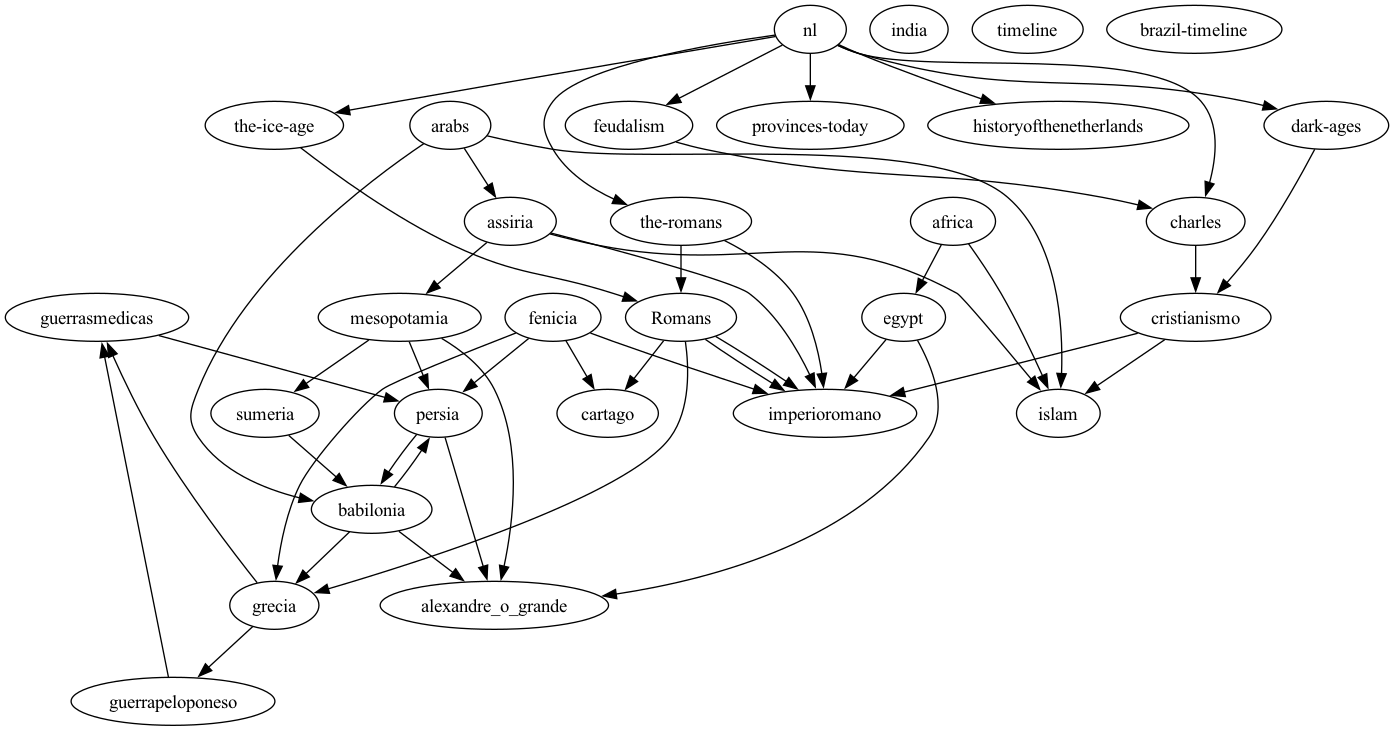
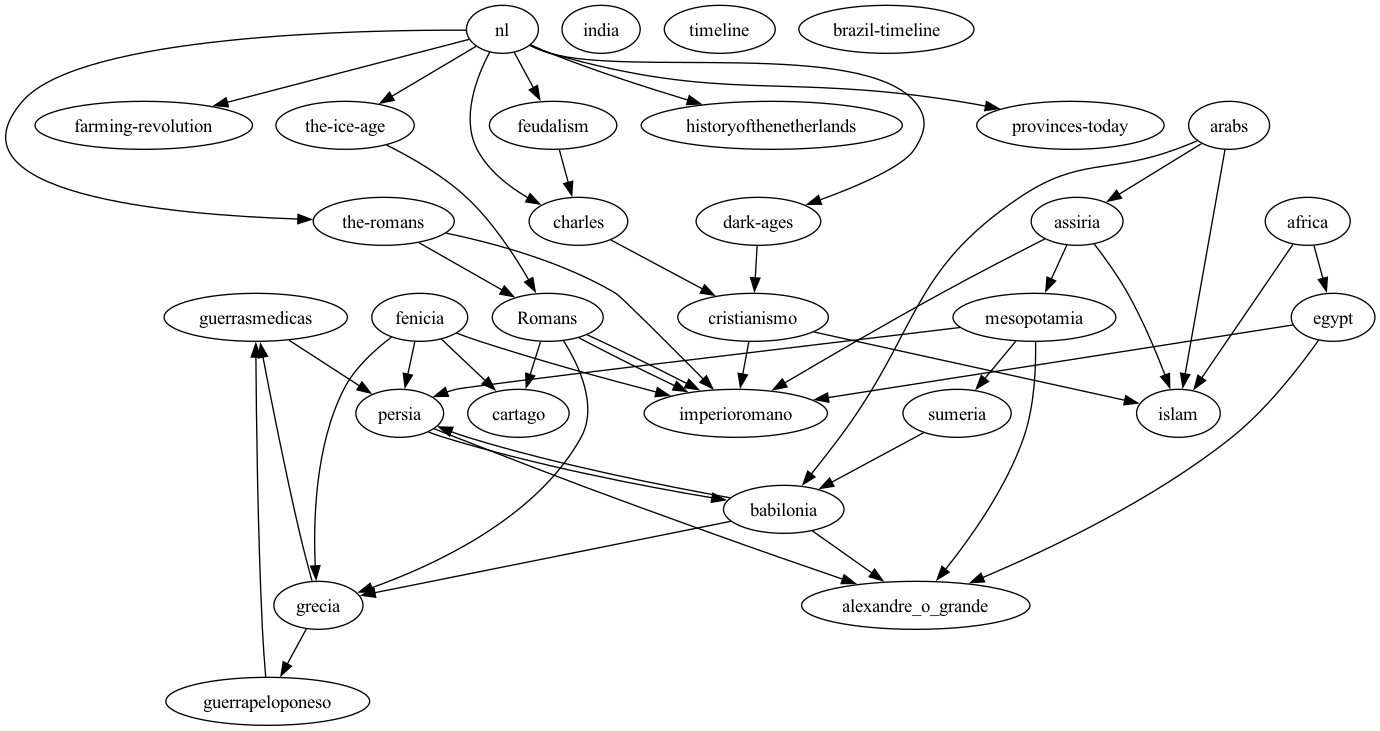
feat: NL farming revolution ::by sergio giraldo @ 20241216T1715CET, gpg signed

diff --git a/docs/netherlands/farming-revolution.md b/docs/netherlands/farming-revolution.md
@@ -1,0 +1,61 @@
+# Ploughin' Forward
+
+Only a tiny minority of people who lived around the end of the first millennium of the Common Era would have been directly concerned with the conflicts with neighbours. For most people in the lowlands, it didn’t matter who their count or duke or emperor was. For them, life was nasty, brutish and short, and involved an overwhelming amount of backbreaking manual labour. But an agricultural revolution changed the life for these peasants forever.
+
+## Church Developments
+
+By the late 1000s the general idealism of what piety looked like had begun to change; a stricter sense of observance came to dominate the expected behaviour of the clergy, or at least the lower clergy. Monks and priests and nuns in this time came to practise celibacy, and no longer married. Wandering preachers abounded, and around them spiritual centres were built. Perhaps the most famous of these in the low countries is the Benedictine monastery at Affligem, which was started by six lay-monks in 1062. They had become followers of one such wanderer and it is the place from whence such great beer continues to flow to this day.
+
+## Castles
+
+Fortifications such as castles had been built as defensive measures, and ranks of lower nobility were put in charge of these by liege lords. These men were known as castellans. Given power over chunks of territory, as well as an awesome piece of machinery - a castle - these castellans ruled with absolutism in their local area and, in the process, often built abusive relationships with the local populations; exploiting them for servitude, their goods and their taxes. They could, without remonstrance, be pretty lax in their enforcement of the King’s law, if it benefited them to do so. Banditry, highway robbery, murder and theft abounded, and sometimes it was on the orders, or with the bought permission, of the castellans. Basically, there was little to no recourse for justice for the common folk.
+
+| ![map](images/muiderslot.jpeg) |
+| *Muiderslot in North Holland, the Netherlands* |
+
+## Peace and Truce of God
+
+By the 1020s, this non-Chrisian behaviour of the castellans came to clash with the rising confidence and social influence of the clergy, given their ever more entrenched high moral standing across all classes of society. A movement to establish what was known as the Peace and Truce of God sprung up, mainly in Flanders. This led to a religious revival, with many ordinary people participating in the erecting of new churches, as well as processions in which people, regardless of their rank, would walk barefoot behind images of the Virgin Mary.  The clergy used their presence, as well as anything at their disposal, like relics and bibles, to try and end disputes, even between armies. Apparently at the sight of a priest clutching a bible, people would suddenly forget what they were fighting about, and lay down their arms. They also tried to hold the abusive lower nobility, like castellans, to account for their exploitations of the people.
+
+It was this first real flexing of its muscles in Western Europe which began to establish the church as a power base that would gradually break away from the direct influence of the upper nobility. 
+
+## Bayeux tapestry
+
+The Bayeux tapestry is an extremely detailed, large embroidery from the latter half of the 11th century. It provides a remarkable insight into everyday northwestern European life from the time when it was produced. Its main content shows the story of William, Duke of Normandy’s conflict with and defeat of Harald Godwinson, and his eventual crowning as the King of England.
+
+If you look at the Bayeux tapestry closely, however, around the edges there are extra little scenes. The one we care about shows an age-old scene: beasts of burden dragging ploughs through a field, accompanied by the peasant farmers who worked the land. In regards to the history of the Netherlands, that is arguably the most important scene in the most famous medieval documentation of the time.
+
+It was not a new scene when the Bayeux tapestry was created in the 1070s, as common people and animals had already been working land together for thousands of years. But what the Bayeux tapestry shows us is that, by the 1000s, the scene had undergone a dramatic transformation from those previous thousands of years. Prior to this time, the beasts of burden used by the people working the land had been oxen, and the ploughs had been light-weight. But in this scene, one of the beasts is a horse, and one of the pieces of machinery being used is a heavy wheeled plough. And those two things, - the use of horses and the use of heavy ploughs - for the people of the lowlands and, indeed for European history in general, would end up being a revolutionary combination indeed.
+
+## Life of peasants
+
+The common folk in the lowlands, very few of whom owned land, would either be serfs, attached by law to a particular estate, or free-folk who, nonetheless, had to enter into contracts of heavy obligation, farming land in order to have anywhere to live and grow food to feed themselves.
+
+A village was, therefore, basically a settlement of several huts, depending on the amount of families, still built out of wattle and daub or whatever other material was available. On either side of the huts would be un-fenced paddocks or fields, which they had to farm. Produce would be taken to a central farmhouse, called a curtis, from which the workers and land was managed by those higher up in the pecking order.
+
+In between these dotted habitations would be large manors, castles and estates controlled by a lower nobility, on behalf of their upper-noble liege lords, within the hierarchical vassal system of medieval European feudalism.
+
+| ![map](images/dorprivier.jpeg) |
+| *Reconstruction of an early medieval settlement near Utrecht in the Netherlands* |
+
+This lower-nobility was referred to as the banal lordship. They were the local rulers to whom the everyday people answered and they possessed what was called bannum, which was basically the legal right to tell other people what to do; to summon people to court and to hand out justice.
+
+## New farming revolution
+
+The great social shift that was happening came about mainly because of a change in farming, and specifically in how to plough. Ploughing soil requires breaking it and turning it. Until now the common plough, used for millennia around the old Roman Empire, had been the scratch-plough, a fairly lightweight construction otherwise known as an ard.
+
+At some point, however, the heavy, wheeled plough, known as a carruca, began to be used in this region. How it arrived in the low countries is totally uncertain and a matter of debate. The heavy wheeled plough has three important components: a coulter, which cuts the soil about 20cm deep, followed by an asymmetrical ploughshare, and a mouldboard. These last two turn the dirt from the side, bringing deeper soil to the surface. This whole get-up would be supported on wheels, instead of runner as the traditional ard was, meaning it did not get stuck in the dense soil as easily.
+
+It required bigger, stronger animals than oxen to pull, so farmers began to use horses. Horses, however, require more food than oxen do. This was solved with other agricultural developments, such as the adoption of a three-field system, and incorporation of legumes in grown crops. Whereas the south European method of farming had involved a two crop rotation system - planting one field and leaving another fallow, and then swapping each year, the three-field system was a much better and more productive idea.
+
+| ![map](images/Medievalplowingwoodcut.jpeg) |
+| *Medieval four-ox-team plough, redrawn from the Luttrell Psalter, an illuminated manuscript of c. 1330* |
+
+The common, working folk began ploughing three separate fields, instead of two. In the first field they would grow cereal goods like wheats, grains and oats. Meanwhile the second field was left until autumn, when winter produce like rye could be planted, but also legumes: beans, peas and lentils. The third would be left fallow, left to rot, and the domestic animals could graze on the chaff.
+
+| ![map](images/threefields.jpg) |
+| *Diagram of a three-field agriculture system* |
+
+Bumper crops eventuated. With big yields of oat and grain, there was now enough fodder to feed the horses, who could now almost fully replace oxen in pulling the heavy ploughs over bigger distances, which could then be turned into tri-rotating crops, which could produce bigger yields. Furthermore, this could all be done with less manpower.
+
+The excess of manpower and the surplus of goods left a whole lot of people with not much to do, and little chance of making a living. Those people had to go somewhere and do something, which leads to the phenomenon of urbanisation in the lowlands.

diff --git a/docs/netherlands/nl.md b/docs/netherlands/nl.md
@@ -13,3 +13,5 @@
 [Charles, the Greate](charles)
 
 [Welcome to Family Feudalism](feudalism)
+
+[Ploughin' Forward](farming-revolution)
